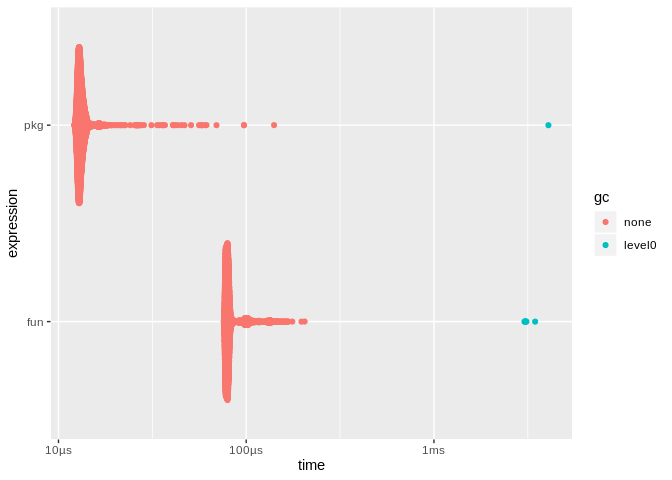
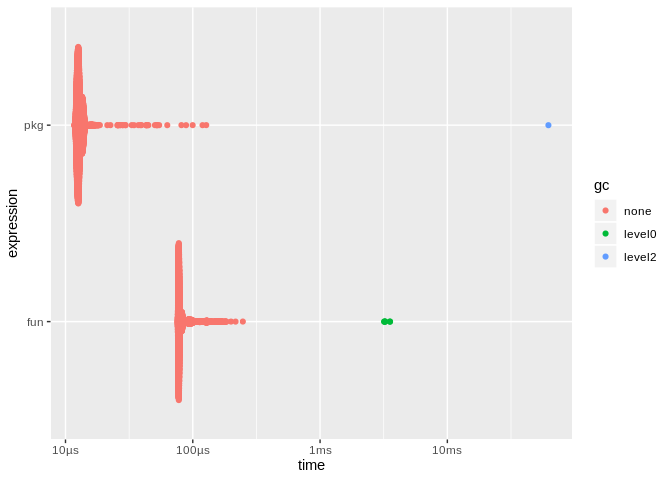
Edit docs

diff --git a/README.md b/README.md
@@ -194,8 +194,8 @@ bm
 #> # A tibble: 2 x 6
 #>   expression   min median `itr/sec` mem_alloc `gc/sec`
 #>   <bch:expr> <dbl>  <dbl>     <dbl>     <dbl>    <dbl>
-#> 1 fun         6.26   6.10      1         1        1.95
-#> 2 pkg         1      1         6.19      1.36     1
+#> 1 fun         6.49   6.15      1         1        1.62
+#> 2 pkg         1      1         6.36      1.36     1
 
 ## view plot
 ggplot2::autoplot(bm)
